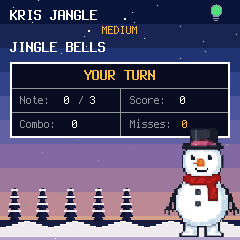
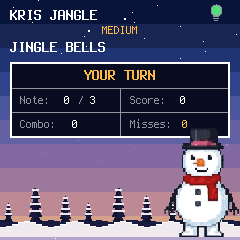
Kris Jangle: firs of different sizes on the ridge
The treeline was eight copies of the same 24x34 fir, evenly spaced: a row
of twins. The fir is drawn by art/gen_art.py, so the shapes are cheap:
there are now three (24x34, 18x26 and 13x19, with their own tiers) and
the eight on the ridge use them in six sizes, some of them turned the
other way, so the wood has a rhythm. draw_sprite grew a mirror flag for
the turned ones.

The ridge itself was a flat 8 px band; its top edge now rolls like the
snow's hills, so the horizon is not a ruler either.

diff --git a/kris-jangle/app.c b/kris-jangle/app.c
@@ -1203,7 +1203,7 @@ static void ball(int32_t cx, int32_t cy, int32_t r, uint16_t c)
 }
 static float ph_sin(uint32_t ph, float k) { return fm_sinf((float)(ph % 628u) * 0.01f * k); }
 
-static void draw_sprite(int32_t x, int32_t y, const uint8_t *px, const uint16_t *pal, int w, int h, int scale)
+static void draw_sprite(int32_t x, int32_t y, const uint8_t *px, const uint16_t *pal, int w, int h, int scale, int mirror)
 {
     int32_t ry, rx;
     for (ry = 0; ry < h; ry++) {
@@ -1214,7 +1214,9 @@ static void draw_sprite(int32_t x, int32_t y, const uint8_t *px, const uint16_t 
             int32_t rx0 = rx;
             while (rx < w && px[ry * w + rx] == v)
                 rx++;
-            rrect(x + rx0 * scale, y + ry * scale, (rx - rx0) * scale, scale, pal[v]);
+            /* mirrored: the run [rx0, rx) lands at the far end of the row */
+            int32_t x0 = mirror ? x + (w - rx) * scale : x + rx0 * scale;
+            rrect(x0, y + ry * scale, (rx - rx0) * scale, scale, pal[v]);
         }
     }
 }
@@ -1246,7 +1248,7 @@ static void frosty(int32_t x, int32_t yb, uint32_t ph)
     }
     draw_sprite(x - FROSTY_W / 2, yb - FROSTY_H + bob,
                 FROSTY_PX + frame * (uint32_t)(FROSTY_W * FROSTY_H),
-                FROSTY_PAL, FROSTY_W, FROSTY_H, 1);
+                FROSTY_PAL, FROSTY_W, FROSTY_H, 1, 0);
 }
 static void santa_spr(int32_t x, int32_t yb, uint32_t ph, int celebrate)
 {
@@ -1256,7 +1258,7 @@ static void santa_spr(int32_t x, int32_t yb, uint32_t ph, int celebrate)
     uint32_t frame = (ph / (celebrate ? 9u : 16u)) % SANTA_NFRAMES;
     draw_sprite(x - SANTA_W / 2, yb - SANTA_H + bob,
                 SANTA_PX + frame * (uint32_t)(SANTA_W * SANTA_H),
-                SANTA_PAL, SANTA_W, SANTA_H, 1);
+                SANTA_PAL, SANTA_W, SANTA_H, 1, 0);
 }
 static void grump_spr(int32_t x, int32_t yb, uint32_t ph)
 {
@@ -1265,7 +1267,7 @@ static void grump_spr(int32_t x, int32_t yb, uint32_t ph)
     uint32_t frame = (ph / 8u) % GRUMP_NFRAMES;
     draw_sprite(x - GRUMP_W / 2, yb - GRUMP_H,
                 GRUMP_PX + frame * (uint32_t)(GRUMP_W * GRUMP_H),
-                GRUMP_PAL, GRUMP_W, GRUMP_H, 1);
+                GRUMP_PAL, GRUMP_W, GRUMP_H, 1, 0);
 }
 static void snowfall(uint32_t ph)
 {
@@ -1307,20 +1309,48 @@ static void sky(uint32_t ph)
 }
 
 /* The far treeline: the firs on the ridge behind the snow, so the horizon is
- * not empty. The fir is the sprite (art/pine.png, from art/gen_art.py); the
- * places are fixed, so both draw passes agree. The firs that would stand
- * behind the staff are left off: staff_x is the x the staff's ink reaches (0
- * for none), so the staff is written on the sky and not lost in the trees. */
+ * not empty. The firs are sprites (art/pine.png, art/fir_small.png and
+ * art/fir_tiny.png, from art/gen_art.py); the places are fixed, so both draw
+ * passes agree. The firs that would stand behind the staff are left off:
+ * staff_x is the x the staff's ink reaches (0 for none), so the staff is
+ * written on the sky and not lost in the trees. */
 #define PINE_COL RGB(26, 30, 66)
+/* The wood on the ridge: three shapes in six sizes, some of them facing the
+ * other way, so the treeline is a wood and not a row of twins. */
+typedef struct {
+    int16_t x;                           /* where it stands */
+    int16_t w, h;                        /* its size */
+    const uint8_t *px;                   /* its pixels */
+    const uint16_t *pal;
+    uint8_t mirror;                      /* 1: its lit side faces the other way */
+} fir_t;
+static const fir_t FIRS[] = {
+    {  2, FIR_TINY_W,  FIR_TINY_H,  FIR_TINY_PX,  FIR_TINY_PAL,  0 },
+    { 24, PINE_W,     PINE_H,     PINE_PX,     PINE_PAL,     1 },
+    { 56, FIR_SMALL_W, FIR_SMALL_H, FIR_SMALL_PX, FIR_SMALL_PAL, 0 },
+    { 82, FIR_TINY_W,  FIR_TINY_H,  FIR_TINY_PX,  FIR_TINY_PAL,  1 },
+    {106, PINE_W,     PINE_H,     PINE_PX,     PINE_PAL,     0 },
+    {138, FIR_SMALL_W, FIR_SMALL_H, FIR_SMALL_PX, FIR_SMALL_PAL, 1 },
+    {166, FIR_TINY_W,  FIR_TINY_H,  FIR_TINY_PX,  FIR_TINY_PAL,  0 },
+    {188, PINE_W,     PINE_H,     PINE_PX,     PINE_PAL,     1 },
+};
 static void treeline(int32_t surface, uint32_t ph, int32_t staff_x)
 {
-    static const int8_t PINE_X[8] = {2, 30, 58, 86, 114, 142, 170, 198};
+    /* the ridge: a dark band with a bumpy top, so it is not a ruler */
+    static const int8_t RIDGE[8] = {0, 1, 2, 2, 1, 0, 0, 1};
     uint32_t i;
     (void)ph;
-    rrect(0, surface - 8, 240, 8, PINE_COL);          /* the ridge */
-    for (i = 0; i < 8u; i++)                         /* the firs on it */
-        if (PINE_X[i] >= staff_x)
-            draw_sprite(PINE_X[i], surface - 6 - PINE_H, PINE_PX, PINE_PAL, PINE_W, PINE_H, 1);
+    for (i = 0; i < 40u; i++) {
+        int32_t x = (int32_t)i * 6;
+        int32_t top = surface - 8 + RIDGE[i % 8u];
+        rrect(x, top, 6, surface + 8 - top, PINE_COL);
+    }
+    for (i = 0; i < sizeof FIRS / sizeof FIRS[0]; i++) {   /* the firs on it */
+        const fir_t *f = &FIRS[i];
+        if (f->x < staff_x)
+            continue;                                   /* none behind the staff */
+        draw_sprite(f->x, surface - 6 - f->h, f->px, f->pal, f->w, f->h, 1, f->mirror);
+    }
 }
 
 /* Shallow snow ground under whoever is standing on this screen: mostly-white
@@ -1487,7 +1517,7 @@ static void draw_staff(void)
     /* no panel behind the staff: it is written in ink on the dusk sky, and
      * the firs are kept clear of it (see treeline) */
     /* the clef (art/clef.png): the ink glyph, its coil on the G4 line */
-    draw_sprite(STAFF_CLEF_X, STAFF_CLEF_Y, CLEF_PX, CLEF_PAL, CLEF_W, CLEF_H, 1);
+    draw_sprite(STAFF_CLEF_X, STAFF_CLEF_Y, CLEF_PX, CLEF_PAL, CLEF_W, CLEF_H, 1, 0);
     for (i = 0; i < 5u; i++)                                   /* the five lines */
         ln(STAFF_X0, STAFF_TOP + (int32_t)i * STAFF_LINE, STAFF_X1, STAFF_TOP + (int32_t)i * STAFF_LINE, C_STAFF);
     for (i = 0; i < STAFF_COLS; i++) {                        /* the bar lines, every eight eighths */
@@ -1811,10 +1841,10 @@ if ((ui.frame / 60u) & 1u)   /* blink ~1 Hz: on for a second, off for a second *
         /* The hints are yellow, not grey: grey on the dusk sky is hard to read. */
         ttext(10, 40, &FONT_XS, "SELECT SOUND", RGB(255, 200, 60));
         draw_sprite(10, 58, SND_ICON[snd_id()].px, SND_ICON[snd_id()].pal,
-                    SND_ICON[snd_id()].w, SND_ICON[snd_id()].h, 1);
+                    SND_ICON[snd_id()].w, SND_ICON[snd_id()].h, 1, 0);
         ttext(32, 60, &FONT_B, SND_NAME[snd_id()], C_WHITE);
         ttext(10, 90, &FONT_XS, "PRESET: CHANGE", RGB(255, 200, 60));
-        draw_sprite(10, 104, ICON_STAFF_PX, ICON_STAFF_PAL, 16, 16, 1);
+        draw_sprite(10, 104, ICON_STAFF_PX, ICON_STAFF_PAL, 16, 16, 1, 0);
         ttext(32, 108, &FONT_XS, "SELECT: STAFF", RGB(255, 200, 60));   /* the state follows the hint's measured width */
         ttext(32 + ttext(0, -5000, &FONT_XS, "SELECT: STAFF", RGB(255, 200, 60)) + 4, 108,
               &FONT_XS, set.staff ? "ON" : "OFF", set.staff ? RGB(120, 255, 140) : RGB(255, 200, 60));
@@ -1854,8 +1884,8 @@ static void splash_content(void)
     snow_ground(196, 0);
     draw_sprite(120 - FROSTY_W / 2, 202 - FROSTY_H,
                 FROSTY_PX + (uint32_t)(FROSTY_W * FROSTY_H),
-                FROSTY_PAL, FROSTY_W, FROSTY_H, 1);
-    draw_sprite((240 - TITLE_W) / 2, 30, TITLE_PX, TITLE_PAL, TITLE_W, TITLE_H, 1);
+                FROSTY_PAL, FROSTY_W, FROSTY_H, 1, 0);
+    draw_sprite((240 - TITLE_W) / 2, 30, TITLE_PX, TITLE_PAL, TITLE_W, TITLE_H, 1, 0);
 }
 
 void app_splash(void)

diff --git a/kris-jangle/sprite_data.h b/kris-jangle/sprite_data.h
@@ -85,6 +85,77 @@ static const uint8_t PINE_PX[] = {
     0,0,0,0,0,0,0,1,1,1,3,1,1,1,3,3,3,3,0,0,0,0,0,0,
 };
 
+#define FIR_SMALL_W 18
+#define FIR_SMALL_H 26
+
+static const uint16_t FIR_SMALL_PAL[] = {
+    0x0000u,  /* 0: #000000 */
+    0x10A6u,  /* 1: #121634 */
+    0xEF5Du,  /* 2: #EEE8EE */
+    0x18E8u,  /* 3: #1A1E42 */
+};
+
+static const uint8_t FIR_SMALL_PX[] = {
+    0,0,0,0,0,0,0,0,0,1,0,0,0,0,0,0,0,0,
+    0,0,0,0,0,0,0,2,2,2,2,2,0,0,0,0,0,0,
+    0,0,0,0,0,0,0,2,2,2,2,2,0,0,0,0,0,0,
+    0,0,0,0,0,0,0,0,1,1,3,0,0,0,0,0,0,0,
+    0,0,0,0,0,0,0,0,1,1,3,0,0,0,0,0,0,0,
+    0,0,0,0,0,0,0,1,1,1,1,3,0,0,0,0,0,0,
+    0,0,0,0,0,0,2,2,2,2,2,2,2,0,0,0,0,0,
+    0,0,0,0,0,0,2,2,2,2,2,2,2,0,0,0,0,0,
+    0,0,0,0,0,0,1,1,1,1,3,3,3,0,0,0,0,0,
+    0,0,0,0,0,0,0,1,1,1,3,3,0,0,0,0,0,0,
+    0,0,0,0,0,0,0,1,1,3,3,3,0,0,0,0,0,0,
+    0,0,0,0,0,0,0,1,1,1,1,3,0,0,0,0,0,0,
+    0,0,0,0,0,2,2,2,2,2,2,2,2,2,0,0,0,0,
+    0,0,0,0,0,2,2,2,2,2,2,2,2,2,0,0,0,0,
+    0,0,0,0,0,1,1,1,1,3,3,3,3,3,0,0,0,0,
+    0,0,0,0,0,1,1,1,1,3,3,3,3,3,0,0,0,0,
+    0,0,0,0,0,0,0,1,1,1,1,3,0,0,0,0,0,0,
+    0,0,0,0,2,2,2,2,2,2,2,2,2,2,2,0,0,0,
+    0,0,0,0,2,2,2,2,2,2,2,2,2,2,2,0,0,0,
+    0,0,0,0,0,1,1,1,1,3,3,3,3,3,0,0,0,0,
+    0,0,0,0,0,1,1,1,1,3,3,3,3,3,0,0,0,0,
+    0,0,0,0,1,1,1,1,1,3,3,3,3,3,3,0,0,0,
+    0,0,0,0,1,1,1,1,1,1,1,3,3,3,3,0,0,0,
+    0,0,0,0,0,0,1,1,1,1,1,3,3,0,0,0,0,0,
+    0,0,0,0,0,1,1,1,1,1,1,3,3,3,0,0,0,0,
+    0,0,0,0,0,1,1,1,1,1,1,3,3,3,0,0,0,0,
+};
+
+#define FIR_TINY_W 13
+#define FIR_TINY_H 19
+
+static const uint16_t FIR_TINY_PAL[] = {
+    0x0000u,  /* 0: #000000 */
+    0x10A6u,  /* 1: #121634 */
+    0xEF5Du,  /* 2: #EEE8EE */
+    0x18E8u,  /* 3: #1A1E42 */
+};
+
+static const uint8_t FIR_TINY_PX[] = {
+    0,0,0,0,0,0,1,0,0,0,0,0,0,
+    0,0,0,0,0,2,2,2,0,0,0,0,0,
+    0,0,0,0,0,2,2,2,0,0,0,0,0,
+    0,0,0,0,0,1,1,3,0,0,0,0,0,
+    0,0,0,0,0,1,1,1,0,0,0,0,0,
+    0,0,0,0,2,2,2,2,2,0,0,0,0,
+    0,0,0,0,2,2,2,2,2,0,0,0,0,
+    0,0,0,0,1,1,1,3,3,0,0,0,0,
+    0,0,0,0,0,1,1,3,0,0,0,0,0,
+    0,0,0,0,1,1,1,1,3,0,0,0,0,
+    0,0,0,2,2,2,2,2,2,2,0,0,0,
+    0,0,0,2,2,2,2,2,2,2,0,0,0,
+    0,0,0,1,1,1,1,3,3,3,0,0,0,
+    0,0,0,0,1,1,1,3,3,0,0,0,0,
+    0,0,0,0,1,1,3,3,3,0,0,0,0,
+    0,0,0,0,1,1,1,1,3,0,0,0,0,
+    0,0,0,1,1,1,1,1,3,3,0,0,0,
+    0,0,0,1,1,1,1,1,3,3,0,0,0,
+    0,0,1,1,1,1,1,1,3,3,3,0,0,
+};
+
 #define NOTE_W 14
 #define NOTE_H 22
 

diff --git a/kris-jangle/art/gen_art.py b/kris-jangle/art/gen_art.py
@@ -84,20 +84,26 @@ def title_banner():
     print(f"title.png: {img.size[0]}x{img.size[1]}")
 
 
-def fir():
-    """a fir on the ridge, with snow on its tiers"""
-    w, h = 24, 34
+def fir(name, w, h, tiers):
+    """a fir on the ridge, with snow on its tiers. One of several: the treeline
+    is a wood, not a row of twins."""
     img = Image.new("RGBA", (w, h), (0, 0, 0, 0))
     d = ImageDraw.Draw(img)
-    tiers = [(0, 10, 4), (7, 12, 5), (14, 14, 6), (21, 16, 7)]   # top, height, half-width
     for top, height, half in tiers:
         d.polygon([(w // 2, top), (w // 2 - half, top + height), (w // 2 + half, top + height)], fill=P.PINE + (255,))
         d.polygon([(w // 2, top), (w // 2 - half, top + height), (w // 2 - half + 3, top + height)],
                   fill=P.PINE_DARK + (255,))
         d.rectangle([w // 2 - half + 1, top + 1, w // 2 + half - 1, top + 2], fill=P.SNOW + (255,))
-    d.rectangle([w // 2 - 1, 30, w // 2 + 1, h - 1], fill=P.PINE_DARK + (255,))
-    img.save(HERE / "pine.png")
-    print(f"pine.png: {w}x{h}")
+    d.rectangle([w // 2 - 1, h - 4, w // 2 + 1, h - 1], fill=P.PINE_DARK + (255,))
+    img.save(HERE / f"{name}.png")
+    print(f"{name}.png: {w}x{h}")
+
+
+def firs():
+    """the firs on the ridge: three shapes, so the treeline has a rhythm"""
+    fir("pine", 24, 34, [(0, 10, 4), (7, 12, 5), (14, 14, 6), (21, 16, 7)])
+    fir("fir_small", 18, 26, [(0, 8, 3), (5, 10, 4), (11, 11, 5), (16, 12, 6)])
+    fir("fir_tiny", 13, 19, [(0, 7, 2), (4, 8, 3), (9, 10, 4)])
 
 
 def note():
@@ -236,7 +242,7 @@ def icons():
 
 def main():
     """draw every sprite, or just the ones named on the command line"""
-    names = sys.argv[1:] or ["title_banner", "fir", "note", "clef", "icons"]
+    names = sys.argv[1:] or ["title_banner", "firs", "note", "clef", "icons"]
     for name in names:
         globals()[name]()
 

diff --git a/kris-jangle/art/png2c.py b/kris-jangle/art/png2c.py
@@ -15,7 +15,7 @@ ROOT = pathlib.Path(__file__).resolve().parent.parent  # carol-courier/
 # the single-frame sprites: the title banner, the fir, the music note and the
 # sound page's icons (art/gen_art.py writes them; hand-edit them in Aseprite
 # and the converter still uses your version)
-SPRITES = ["title", "pine", "note", "clef",
+SPRITES = ["title", "pine", "fir_small", "fir_tiny", "note", "clef",
            "icon_bells", "icon_choir", "icon_kazoo", "icon_piano", "icon_flute",
            "icon_sax", "icon_staff", "icon_midi"]
 ANIMATED = {

diff --git a/kris-jangle/site/landing.md b/kris-jangle/site/landing.md
@@ -3,8 +3,8 @@
 Kris Jangle is a Christmas game for the M-VAVE FM-1. It plays the start of
 a carol — Jingle Bells, Deck the Halls, Ding Dong Merrily on High, or O Christmas Tree —
 and you replay it on the keys, on piano (or the selected sound) throughout. It plays in a
-winter dusk — a deep blue sky fading to peach, the first stars, a row of firs
-on the ridge — in a chunky pixel face. The title screen
+winter dusk — a deep blue sky fading to peach, the first stars, firs of
+different sizes on the ridge — in a chunky pixel face. The title screen
 is laid out in bordered boxes picking the play mode and the carol, the LISTEN and YOUR TURN
 stats sit in boxed grids, and on the sound pages and during YOUR TURN holding a key pops a large note modal with its name and MIDI
 number. The song builds as you

diff --git a/kris-jangle/README.md b/kris-jangle/README.md
@@ -6,8 +6,8 @@ A Christmas song game for the M-VAVE FM-1. The FM-1 plays the start
 of a public-domain carol and you replay it on the 27 keys. The song
 builds three notes per level until level 11 is the whole song. Three
 misses sends you to Grump Mode (a recorded jeer). It plays in a winter
-dusk — a deep blue sky fading to peach, the first stars, a row of firs on
-the ridge — in a chunky pixel face (Terminus). The title screen
+dusk — a deep blue sky fading to peach, the first stars, firs of different
+sizes on the ridge — in a chunky pixel face (Terminus). The title screen
 is laid out in bordered boxes — PLAY MODE and SONG lists on top,
 a battery lightbulb beside the name and a KEEP SCORE box below —
 and on the sound pages and during YOUR TURN holding a key shows a large

diff --git a/kris-jangle/docs/MANUAL.md b/kris-jangle/docs/MANUAL.md
@@ -42,8 +42,8 @@ SAFE MODE after two failed starts, and the web installer can reach it there.
 ## 2. The screen
 
 The game plays in a winter dusk: a deep blue sky fading to a warm peach at
-the horizon, the first stars out in the dark, a row of firs on the ridge and
-the snow below. The boot splash shows the frosted name over it:
+the horizon, the first stars out in the dark, firs of different sizes on the
+ridge and the snow below. The boot splash shows the frosted name over it:
 
 ![The boot splash](img/splash.png "The boot splash")
 
